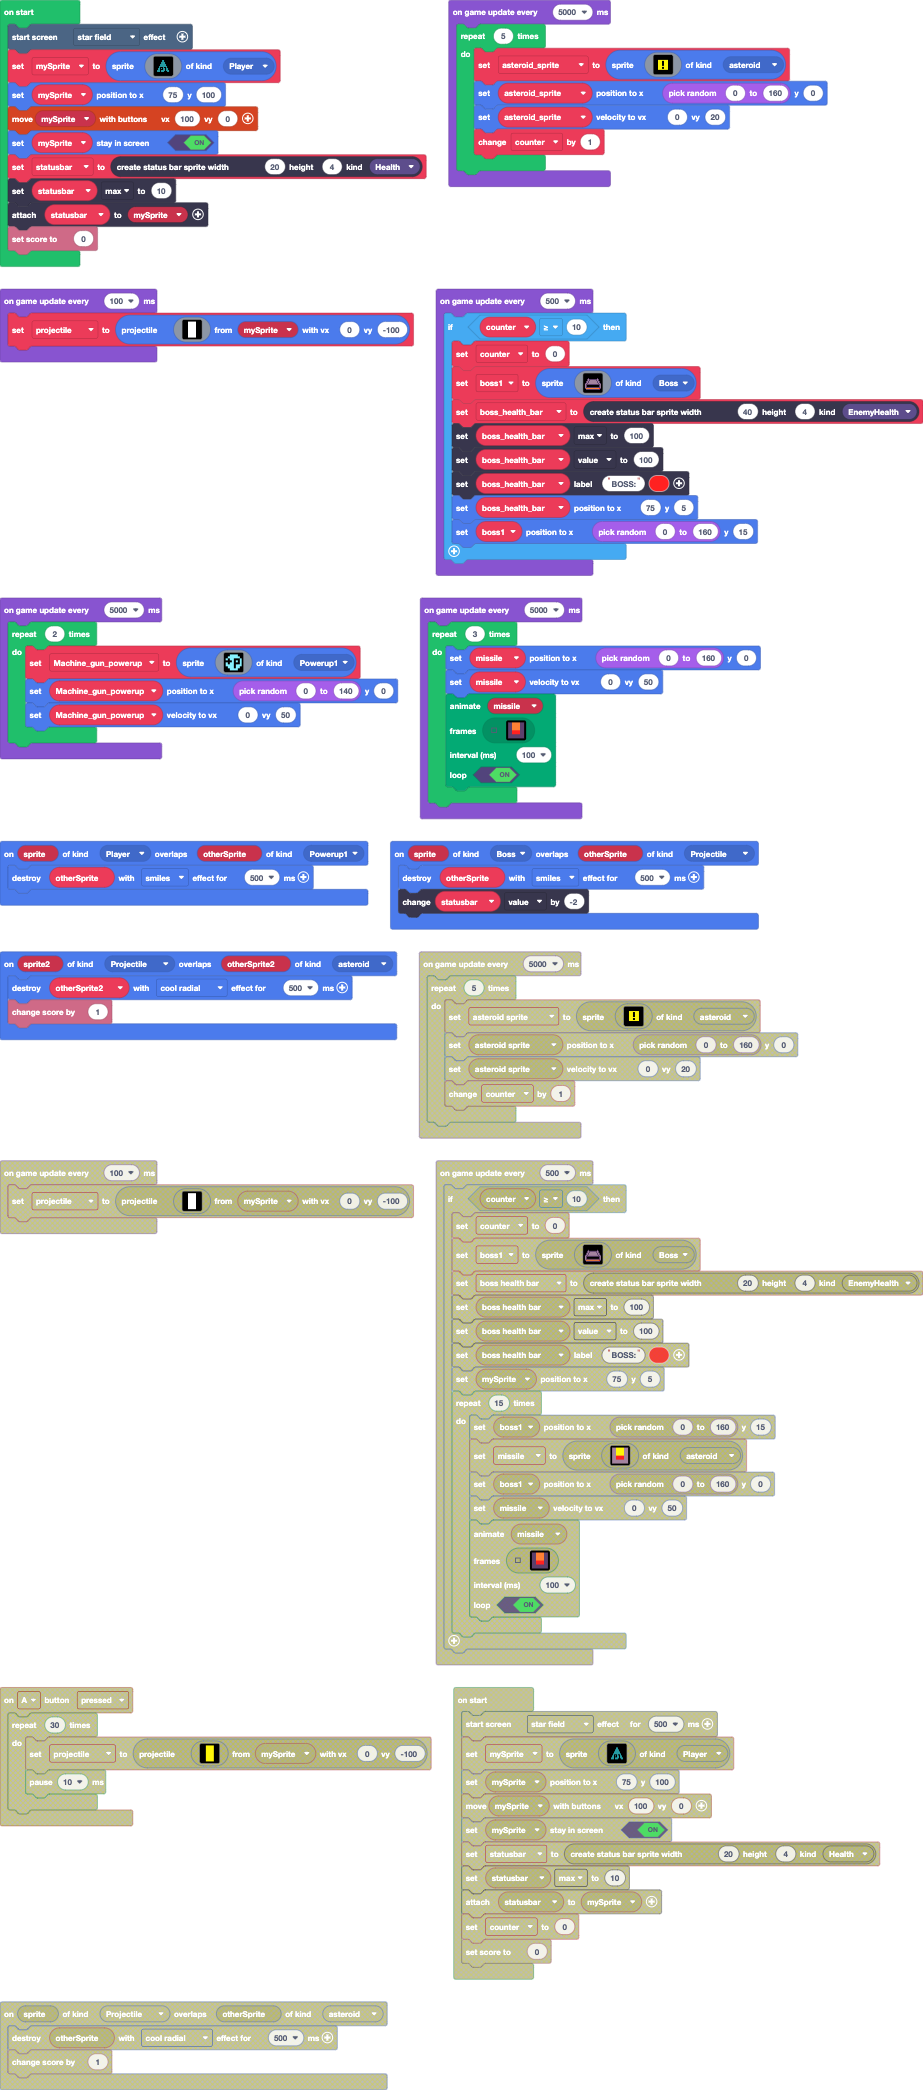
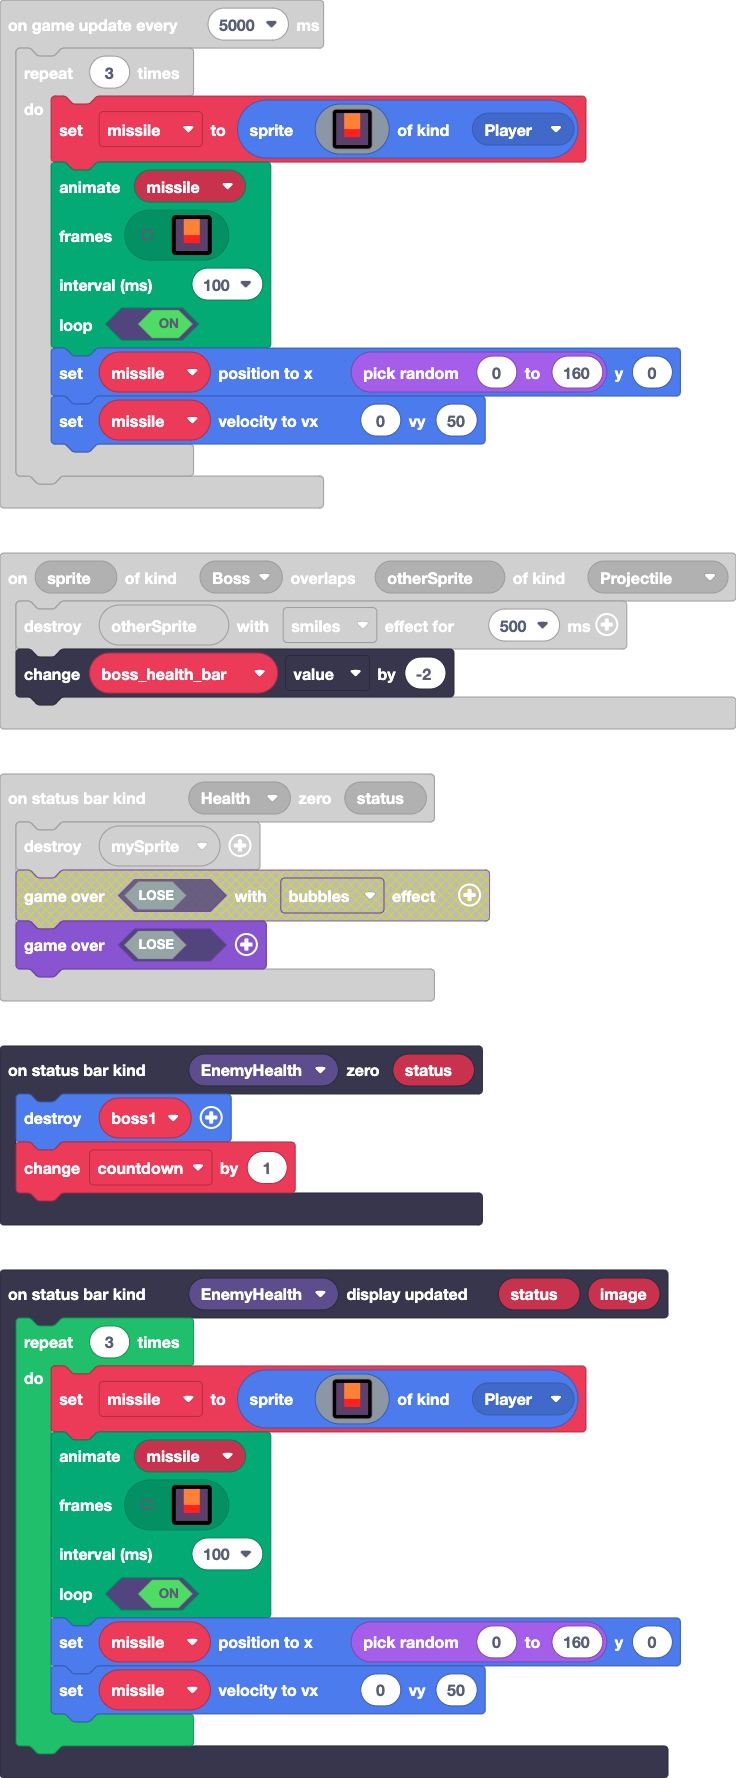
added a boss countermeasure

diff --git a/main.ts b/main.ts
@@ -4,14 +4,58 @@ namespace SpriteKind {
     export const Boss = SpriteKind.create()
     export const Powerup1 = SpriteKind.create()
 }
+statusbars.onDisplayUpdated(StatusBarKind.EnemyHealth, function (status, image2) {
+    for (let index = 0; index < 3; index++) {
+        missile = sprites.create(img`
+            c c 4 4 4 4 c c 
+            c c 4 4 4 4 c c 
+            c c 4 4 4 4 c c 
+            c c 4 4 4 4 c c 
+            c c 2 2 2 2 c c 
+            c c 2 2 2 2 c c 
+            c c c c c c c c 
+            c c c c c c c c 
+            `, SpriteKind.Player)
+        animation.runImageAnimation(
+        missile,
+        [img`
+            c c 4 4 4 4 c c 
+            c c 4 4 4 4 c c 
+            c c 4 4 4 4 c c 
+            c c 4 4 4 4 c c 
+            c c 2 2 2 2 c c 
+            c c 2 2 2 2 c c 
+            c c c c c c c c 
+            c c c c c c c c 
+            `,img`
+            b b 5 5 5 5 b b 
+            b b 5 5 5 5 b b 
+            b b 5 5 5 5 b b 
+            b b 5 5 5 5 b b 
+            b b 2 2 2 2 b b 
+            b b 2 2 2 2 b b 
+            b b b b b b b b 
+            b b b b b b b b 
+            `],
+        100,
+        true
+        )
+        missile.setPosition(randint(0, 160), 0)
+        missile.setVelocity(0, 50)
+    }
+})
 sprites.onOverlap(SpriteKind.Player, SpriteKind.asteroid, function (sprite, otherSprite) {
     otherSprite.destroy()
     statusbar.value += -1
     info.changeScoreBy(-1)
 })
+statusbars.onZero(StatusBarKind.EnemyHealth, function (status) {
+    boss1.destroy()
+    countdown += 1
+})
 statusbars.onZero(StatusBarKind.Health, function (status) {
     mySprite.destroy()
-    game.over(false, effects.bubbles)
+    game.over(false)
 })
 sprites.onOverlap(SpriteKind.Projectile, SpriteKind.asteroid, function (sprite2, otherSprite2) {
     otherSprite2.destroy(effects.coolRadial, 500)
@@ -22,14 +66,16 @@ sprites.onOverlap(SpriteKind.Player, SpriteKind.Powerup1, function (sprite, othe
 })
 sprites.onOverlap(SpriteKind.Boss, SpriteKind.Projectile, function (sprite, otherSprite) {
     otherSprite.destroy()
-    statusbar.value += -2
+    boss_health_bar.value += -2
 })
 let projectile: Sprite = null
-let boss_health_bar: StatusBarSprite = null
-let boss1: Sprite = null
 let Machine_gun_powerup: Sprite = null
 let counter = 0
 let asteroid_sprite: Sprite = null
+let boss_health_bar: StatusBarSprite = null
+let countdown = 0
+let boss1: Sprite = null
+let missile: Sprite = null
 let statusbar: StatusBarSprite = null
 let mySprite: Sprite = null
 effects.starField.startScreenEffect()
@@ -101,9 +147,16 @@ game.onUpdateInterval(5000, function () {
 })
 game.onUpdateInterval(5000, function () {
     for (let index = 0; index < 3; index++) {
-        let missile: Sprite = null
-        missile.setPosition(randint(0, 160), 0)
-        missile.setVelocity(0, 50)
+        missile = sprites.create(img`
+            c c 4 4 4 4 c c 
+            c c 4 4 4 4 c c 
+            c c 4 4 4 4 c c 
+            c c 4 4 4 4 c c 
+            c c 2 2 2 2 c c 
+            c c 2 2 2 2 c c 
+            c c c c c c c c 
+            c c c c c c c c 
+            `, SpriteKind.Player)
         animation.runImageAnimation(
         missile,
         [img`
@@ -128,6 +181,8 @@ game.onUpdateInterval(5000, function () {
         100,
         true
         )
+        missile.setPosition(randint(0, 160), 0)
+        missile.setVelocity(0, 50)
     }
 })
 game.onUpdateInterval(500, function () {
